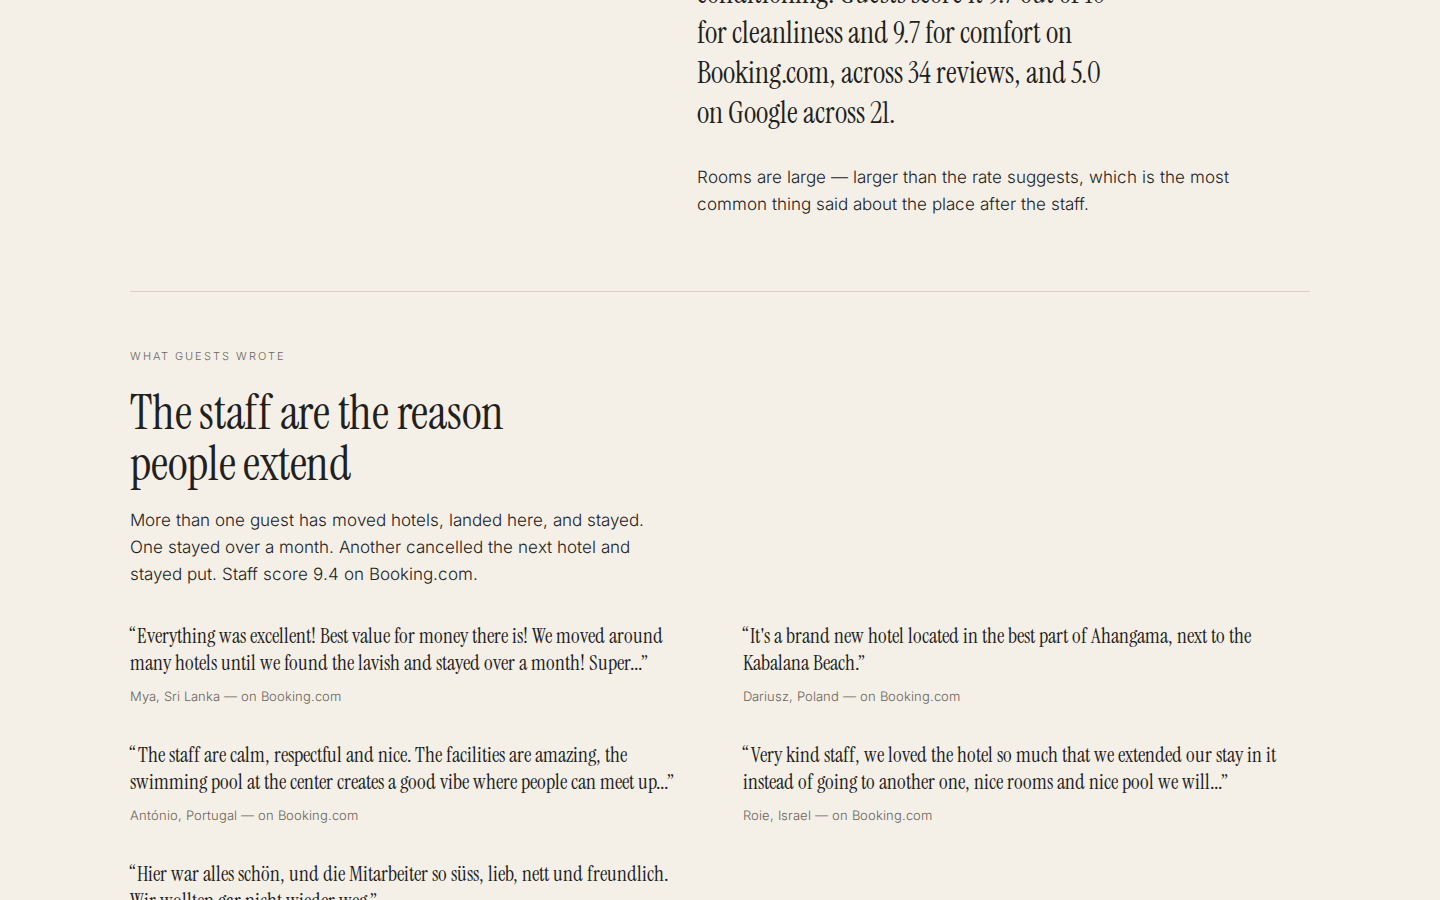
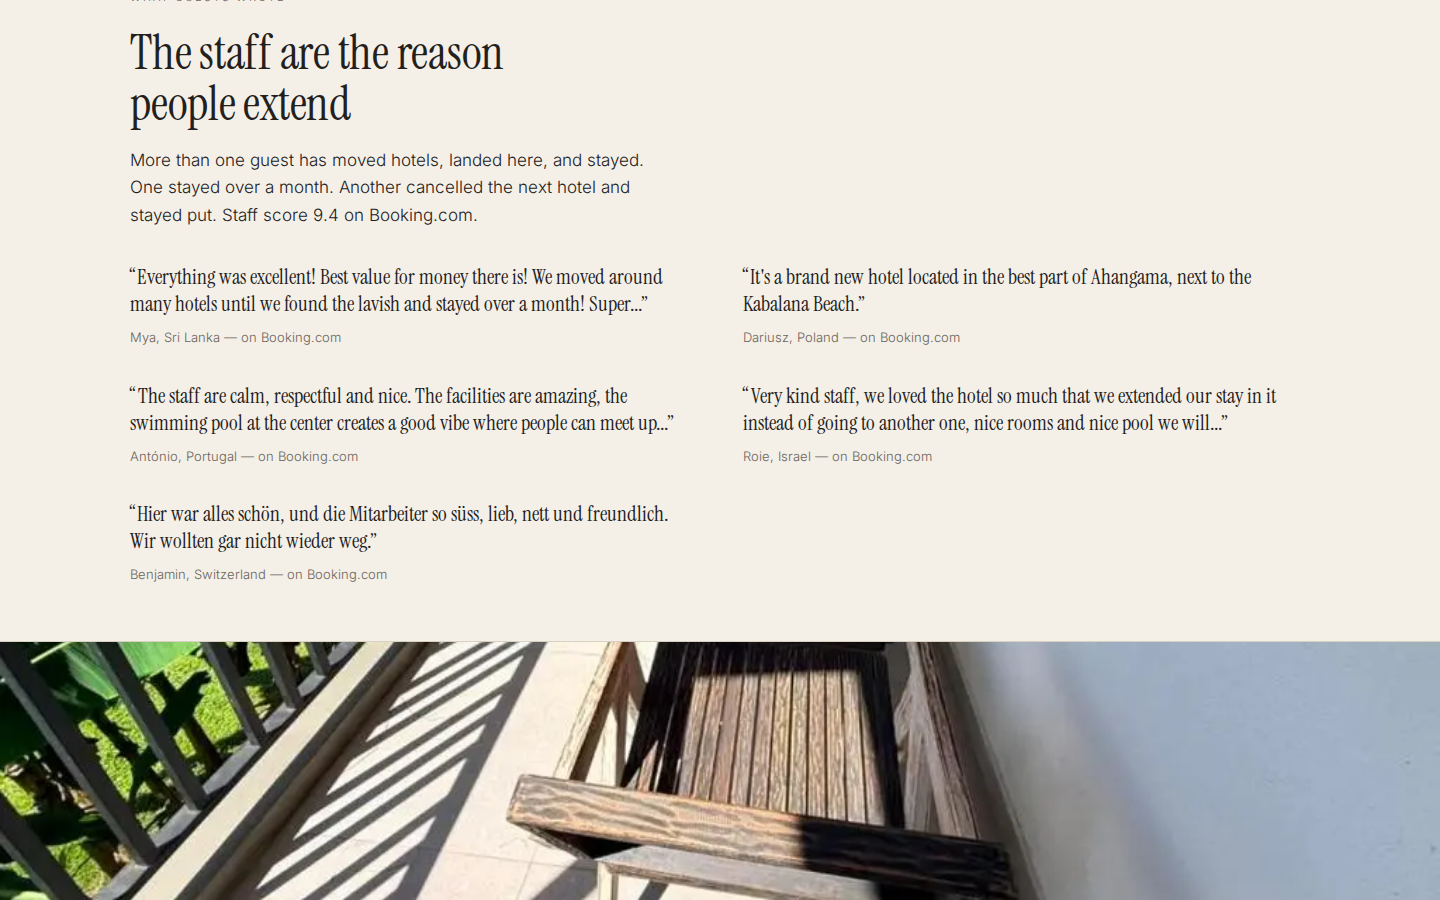
Calm mockup: Shahar's review
- Booking actions take a line of their own, caveat underneath, each with its
  platform mark drawn inline as SVG so nothing is fetched for them.
- The staggered captioned plates were chaos on a page arguing for restraint:
  one even gallery instead, same crop, equal gaps, no captions.
- The gap before the room table and the amenity list now equals the section's
  own top padding, so the section reads as one block.
- Five full-bleed photographs between the long text sections, parallaxing with
  background-attachment so the mockup still ships zero bytes of JavaScript;
  plain cover images on phones and under prefers-reduced-motion.
- The Rosa forecast for Kabalana is embedded in The wave. It is a third-party
  iframe against playbook §4, so it is lazy, sandboxed, and the conflict is
  written into notes.md rather than glossed.

diff --git a/sites/the-lavish-haven/mockups/calm/src/styles/site.css b/sites/the-lavish-haven/mockups/calm/src/styles/site.css
@@ -84,13 +84,13 @@ a { color: inherit; }
 
 /* ---------- the booking strip, docked under the hero ---------- */
 .dock { background: var(--paper-deep); border-bottom: 1px solid var(--rule); }
-.dock .inner { display: grid; gap: 14px; padding: 18px 0 20px; }
-.dock .note { font-size: 14px; color: var(--muted); margin: 0; }
-.dock .acts { display: flex; flex-wrap: wrap; gap: 10px; }
-@media (min-width: 860px) {
-  .dock .inner { grid-template-columns: 1fr auto; align-items: center; }
-  .dock .note { max-width: 30rem; }
-}
+.dock .inner { display: grid; gap: 14px; padding: 20px 0 22px; }
+.dock .note { font-size: 14px; color: var(--muted); margin: 0; max-width: 46rem; }
+.dock .acts { display: grid; gap: 10px; }
+@media (min-width: 620px) { .dock .acts { grid-auto-flow: column; justify-content: start; } }
+/* the actions keep a line of their own, and the caveat reads underneath them */
+.btn--ota { display: inline-flex; align-items: center; gap: 10px; }
+.btn--ota svg { flex: none; }
 
 /* ---------- generic section ---------- */
 .sec { padding: 56px 0; }
@@ -116,7 +116,9 @@ p { max-width: var(--measure); }
 /* ---------- rooms, as a typeset list ---------- */
 /* The dossier does not say which photograph belongs to which room type, so the
    room types are set as text. Claiming otherwise would be an invented fact. */
-.rooms { list-style: none; margin: 0; padding: 0; border-top: 1px solid var(--rule); }
+/* the gap above the table matches the gap between the section rule and its
+   eyebrow, so the section reads as one block */
+.rooms { list-style: none; margin: 56px 0 0; padding: 0; border-top: 1px solid var(--rule); }
 .rooms li {
   display: grid; gap: 2px 20px; padding: 16px 0;
   border-bottom: 1px solid var(--rule);
@@ -129,23 +131,41 @@ p { max-width: var(--measure); }
   .rooms .sleeps { text-align: right; }
 }
 
-/* ---------- plates: small photographs, matted like prints ---------- */
-/* references.md #9 (Tandjung Sari) — imperfect photos read better small and
-   framed than large and full-bleed. These are phone photographs. */
-.plates { display: grid; gap: 22px; grid-template-columns: repeat(2, 1fr); margin-top: 30px; }
-@media (min-width: 860px) { .plates { grid-template-columns: repeat(4, 1fr); gap: 26px; } }
-.plate { margin: 0; background: #fff; padding: 10px 10px 0; box-shadow: 0 1px 2px rgba(35,32,28,.14); }
-.plate img { width: 100%; aspect-ratio: 4 / 3; object-fit: cover; }
-.plate figcaption { font-size: 12px; line-height: 1.35; color: var(--muted); padding: 9px 1px 11px; }
-/* one plate in the row is taller, so the row does not read as a template
-   (references.md #10 — grid-breaking with no extra assets) */
-@media (min-width: 860px) { .plate--tall img { aspect-ratio: 3 / 4.2; } }
+/* ---------- gallery ---------- */
+/* Eight photographs, all cropped to the same 4:3 frame on an even grid. The
+   earlier version staggered their heights and captioned each one; on a page
+   whose whole argument is restraint that read as chaos, and the captions
+   repeated what the picture already showed. The alt text still carries the
+   description for anyone who cannot see it. */
+.gallery { display: grid; gap: 14px; grid-template-columns: repeat(2, 1fr); margin-top: 44px; }
+@media (min-width: 720px) { .gallery { grid-template-columns: repeat(4, 1fr); gap: 18px; } }
+.gallery img { width: 100%; aspect-ratio: 4 / 3; object-fit: cover; }
+
+/* ---------- full-width parallax bands between sections ---------- */
+/* The page is long and almost entirely text. A full-bleed photograph between
+   sections gives the eye somewhere to rest. Done with background-attachment,
+   so the calm mockup still ships zero JavaScript; switched to a plain cover
+   image on phones, where fixed attachment is unsupported or janky. */
+.band {
+  height: clamp(240px, 52svh, 520px);
+  background-size: cover; background-position: center; background-repeat: no-repeat;
+  border-top: 1px solid var(--rule); border-bottom: 1px solid var(--rule);
+}
+@media (min-width: 760px) and (prefers-reduced-motion: no-preference) {
+  .band { background-attachment: fixed; }
+}
 
 /* ---------- amenities ---------- */
-.amen { columns: 2; column-gap: 34px; list-style: none; margin: 0; padding: 0; font-size: 15.5px; }
+.amen { columns: 2; column-gap: 34px; list-style: none; margin: 56px 0 0; padding: 0; font-size: 15.5px; }
 @media (min-width: 900px) { .amen { columns: 3; } }
 .amen li { break-inside: avoid; padding: 7px 0; border-bottom: 1px solid var(--rule); }
 .amen .note { color: var(--muted); font-size: 13px; }
+
+/* ---------- the wave, with the live forecast ---------- */
+.wave { display: grid; gap: 28px; align-items: start; }
+@media (min-width: 860px) { .wave { grid-template-columns: minmax(0, 1fr) 420px; gap: 56px; } }
+.wave .widget { width: 100%; max-width: 420px; }
+.wave .widget p { font-size: 12px; color: var(--muted); margin: 10px 0 0; }
 
 /* ---------- reviews ---------- */
 .quotes { display: grid; gap: 26px; }

diff --git a/sites/the-lavish-haven/mockups/calm/notes.md b/sites/the-lavish-haven/mockups/calm/notes.md
@@ -19,9 +19,12 @@ Read against `agents/designer/references.md`:
   of every screen under 760 px, plus the docked strip under the hero (Morgan's Rock's docked bar).
 - **#8 type does the heavy lifting** — the lead paragraph of each section is set large in the serif
   against small sans, because this business's photographs cannot carry a page.
-- **#9 imperfect photos as matted prints** (Tandjung Sari) — the eight photographs are shown small,
-  on white mats with a caption, not full-bleed. See "images" below for why that matters here.
-- **#10 grid-breaking with no assets** — two of the eight plates are taller than their row.
+- **#9 imperfect photos as matted prints** (Tandjung Sari) was the first attempt and it was wrong
+  here: staggered heights and a caption under every frame read as chaos on a page whose whole
+  argument is restraint. Replaced on review with one even gallery — eight photographs, all cropped
+  to the same 4:3 frame, equal gaps, no captions. The alt text still carries the description.
+- **#10 grid-breaking with no assets** — dropped for the same reason. The break in this page's
+  rhythm is now the full-bleed bands, not a staggered tile.
 - **#23 two families, each with one job** — Instrument Serif for display, Inter for everything else.
   68 KB of font, self-hosted, `font-display: swap`.
 - **#20 nothing covers the first screen** — no pop-up, no cookie wall, no chat widget.
@@ -87,17 +90,41 @@ Used, in order:
 | Asset | Where | Alt |
 |---|---|---|
 | `img-002` | hero | room blocks lit at dusk around the lit pool |
-| `img-078` | plate | the pool from above in daylight |
-| `img-072` | plate (tall) | balcony looking down through palms to the pool |
-| `img-014` | plate | guest room with a stone feature wall |
-| `img-042` | plate | bathroom, dark tile, lit mirror |
-| `img-065` | plate | balcony with timber chairs under a slatted roof |
-| `img-057` | plate (tall) | bathroom tiled in timber-toned stone with a rain shower |
-| `img-047` | plate | room with two beds under a high pitched ceiling |
-| `img-079` | plate | pool and garden from above |
+| `img-078` | gallery | the pool from above in daylight |
+| `img-072` | gallery | balcony looking down through palms to the pool |
+| `img-014` | gallery | guest room with a stone feature wall |
+| `img-042` | gallery | bathroom, dark tile, lit mirror |
+| `img-065` | gallery | balcony with timber chairs under a slatted roof |
+| `img-057` | gallery | bathroom tiled in timber-toned stone with a rain shower |
+| `img-047` | gallery | room with two beds under a high pitched ceiling |
+| `img-079` | gallery | pool and garden from above |
+| `img-001` | band after the gallery | the pool lit from within at dusk |
+| `img-073` | band before "What is here" | down from a balcony through palms to the pool |
+| `img-067` | band before "Recently opened" | the pool from a stairwell, framed by a palm |
+| `img-077` | band before "What guests wrote" | a balcony behind a bamboo blind |
+| `img-068` | band before "The wave" | a balcony walkway with banana leaves against the rail |
 
-70 further business-owned photographs are available and unused — mostly the near-identical room and
+65 further business-owned photographs are available and unused — mostly the near-identical room and
 bathroom shots. No review photo, stock or generated image is used; none exists in this dossier.
+
+## revision, 2026-09-20 (Shahar's review)
+
+1. **The booking actions keep a line of their own**, with the caveat sentence underneath them
+   rather than beside them. Each action carries its platform's mark, drawn inline as SVG
+   (`src/components/`), so the page still makes **zero outside requests** for them — Booking.com's
+   blue "B.", Agoda's grey "a" over its row of coloured dots, and a plain handset for the phone.
+   The marks are used nominatively: each labels a link to this hotel's own listing on that platform.
+2. **The photographs are one even gallery** — same crop, same size, equal gaps, captions removed.
+3. **The run-in gap before the room table and the amenity list now equals the section's own top
+   padding** (56 px), so the gap between the section rule and its eyebrow and the gap between the
+   text and the table are the same measure.
+4. **Five full-bleed photographs sit between the long text sections.** They parallax with
+   `background-attachment: fixed`, which keeps this mockup at **zero bytes of JavaScript**; on
+   phones and under `prefers-reduced-motion` they are plain cover images, because fixed attachment
+   is unsupported or janky there. Cost: the source photographs are 1024 px wide, so a full-bleed
+   band upscales them — acceptable at this size, and the reason the bands use the wide pool and
+   balcony shots rather than the tight interiors.
+5. **The Rosa forecast for Kabalana is embedded in "The wave"** — see the conflict below.
 
 ## conflicts
 
@@ -105,7 +132,15 @@ bathroom shots. No review photo, stock or generated image is used; none exists i
    exemption was never merged into `custom.md`, which is Shahar's file and not mine to edit. Shahar
    confirmed on 2026-09-20 that calm skips the canvas for this run. The proposal to put the line into
    `custom.md` is still open — `proposals/2026-09-mirissa-01/001-designer-custom-calm-variant.md`.
-2. **`custom.md` asks for a booking drawer hiding a complex booking engine.** There is no engine to
+2. **The Rosa widget is a third-party embed, and playbook §4 says "third-party requests on load: 0"
+   and "all assets self-hosted; the site must work when a CDN doesn't".** Shahar asked for it on
+   2026-09-20 and it is genuinely useful here — the visitor is a surfer and Kabalana is the reason
+   they are booking. Mitigations: the iframe is `loading="lazy"`, so it is not on the critical path
+   and not part of the first-load budget; it is sandboxed; it carries
+   `referrerpolicy="strict-origin-when-cross-origin"`; and the section reads correctly without it,
+   because the spot sentence above it is dossier-sourced text. It remains a live dependency on
+   `rosa.surf`: if that host is down, the visitor sees an empty frame. Flagged, not hidden.
+3. **`custom.md` asks for a booking drawer hiding a complex booking engine.** There is no engine to
    hide: this hotel takes bookings through Booking.com and Agoda, and playbook §5 forbids introducing
    a channel the owner does not monitor. A drawer that collected dates and then threw them away at an
    OTA link would be theatre. The calm mockup therefore states the honest limit — "rates change with
@@ -119,12 +154,12 @@ bathroom shots. No review photo, stock or generated image is used; none exists i
 | Booking targets match the dossier character for character | pass — Booking.com, Agoda and `tel:+94764832988` diffed against `dossier.booking` / `dossier.contact` |
 | Mobile first, 390 px | pass — `shots/mobile.png`, no overflow, no overlap |
 | Desktop 1440 px | pass — `shots/desktop.png` |
-| Works with JS off | pass — the build ships **0 bytes of JavaScript**; every action is an `<a href>` |
+| Works with JS off | pass — the build ships **0 bytes of its own JavaScript**; every action is an `<a href>`, and the parallax is CSS. The embedded Rosa widget runs its own script inside its sandboxed iframe; with JavaScript off the frame is empty and the rest of the page is unaffected. |
 | Tap targets ≥ 44 px | pass — buttons 44 px, the fixed bar 52 px |
 | Reduced motion | not applicable — nothing animates |
 | Keyboard | pass — document order, skip link first, visible focus ring on every link |
 | Broken images | 0 (`tools/shoot-mockups.mjs`) |
-| Self-hosted, no third party | pass — 0 external requests; fonts vendored in `public/fonts/` |
+| Self-hosted, no third party | **partial** — 0 external requests on first load; the fonts and the three platform marks are vendored. The Rosa forecast iframe (`rosa.surf`) is one deliberate third-party embed, lazy-loaded and sandboxed. See conflicts. |
 | Relative URLs | pass — CSS is inlined, assets referenced without a leading slash, so the build runs from a subfolder |
 
 **Weight** (`weight.json`, whole `dist/`): html+inlined css 19 KB · JS 0 KB · fonts 68 KB ·
